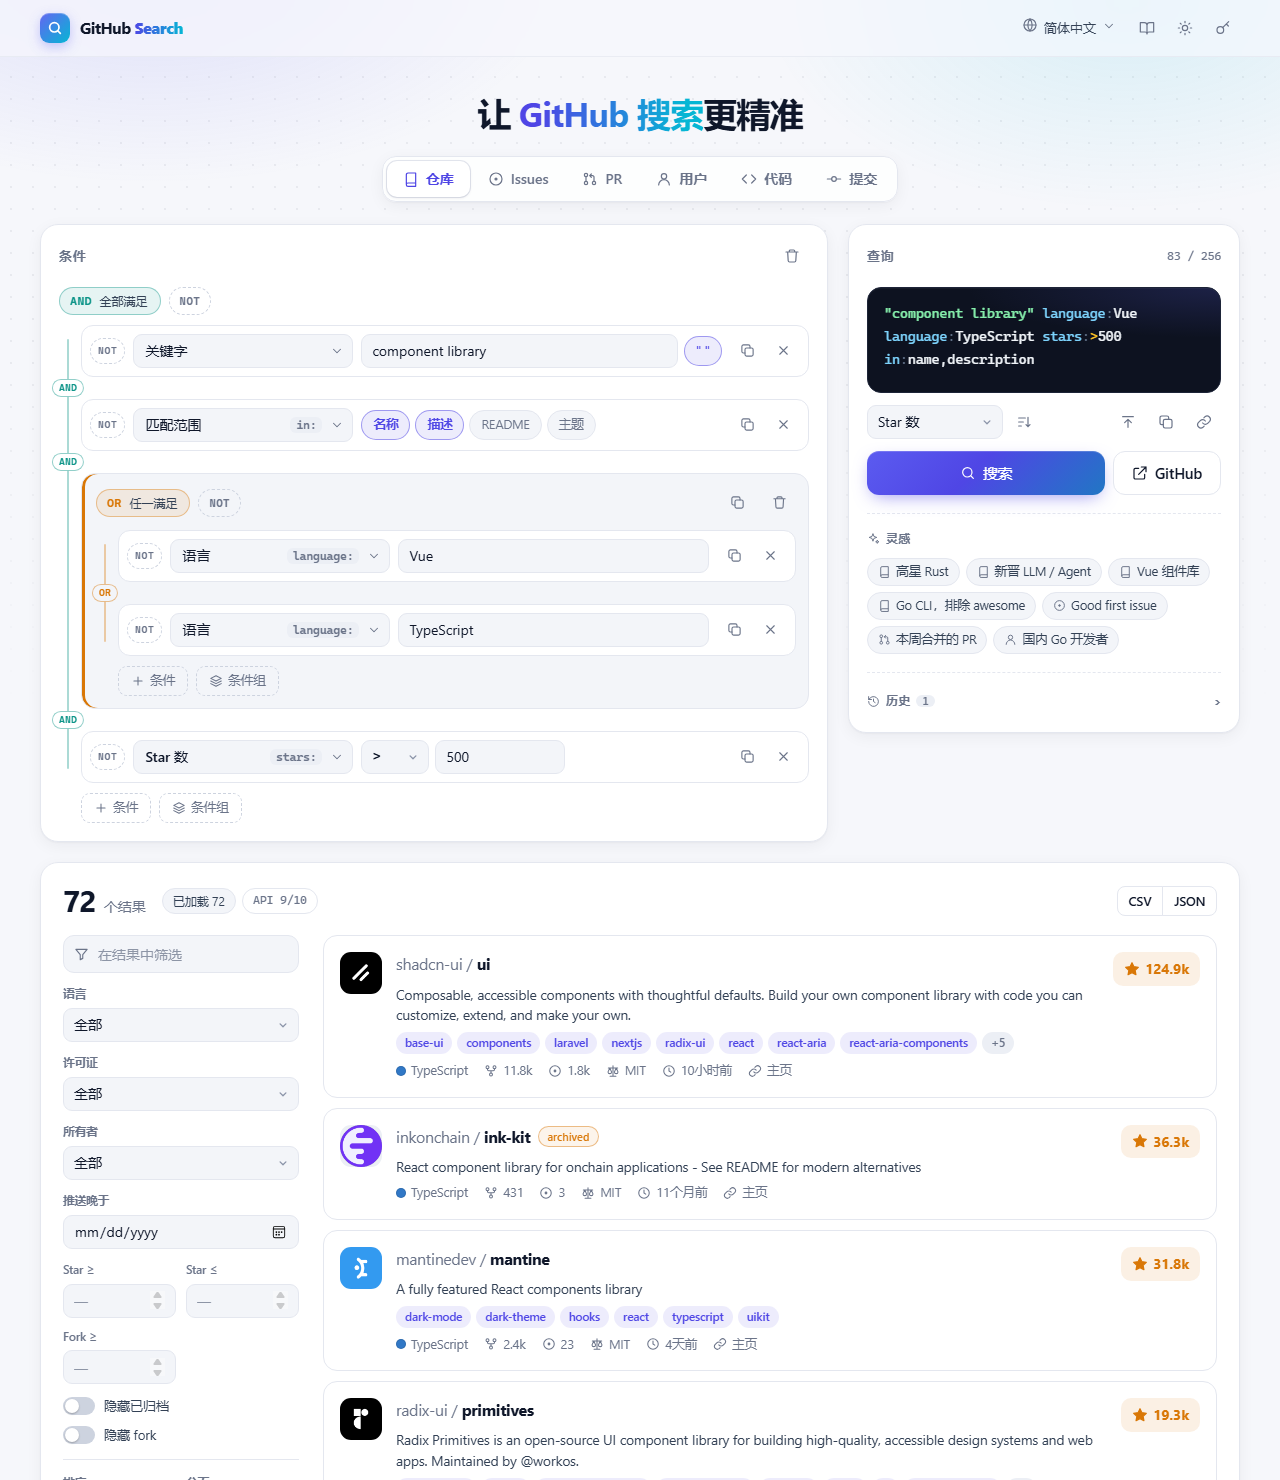
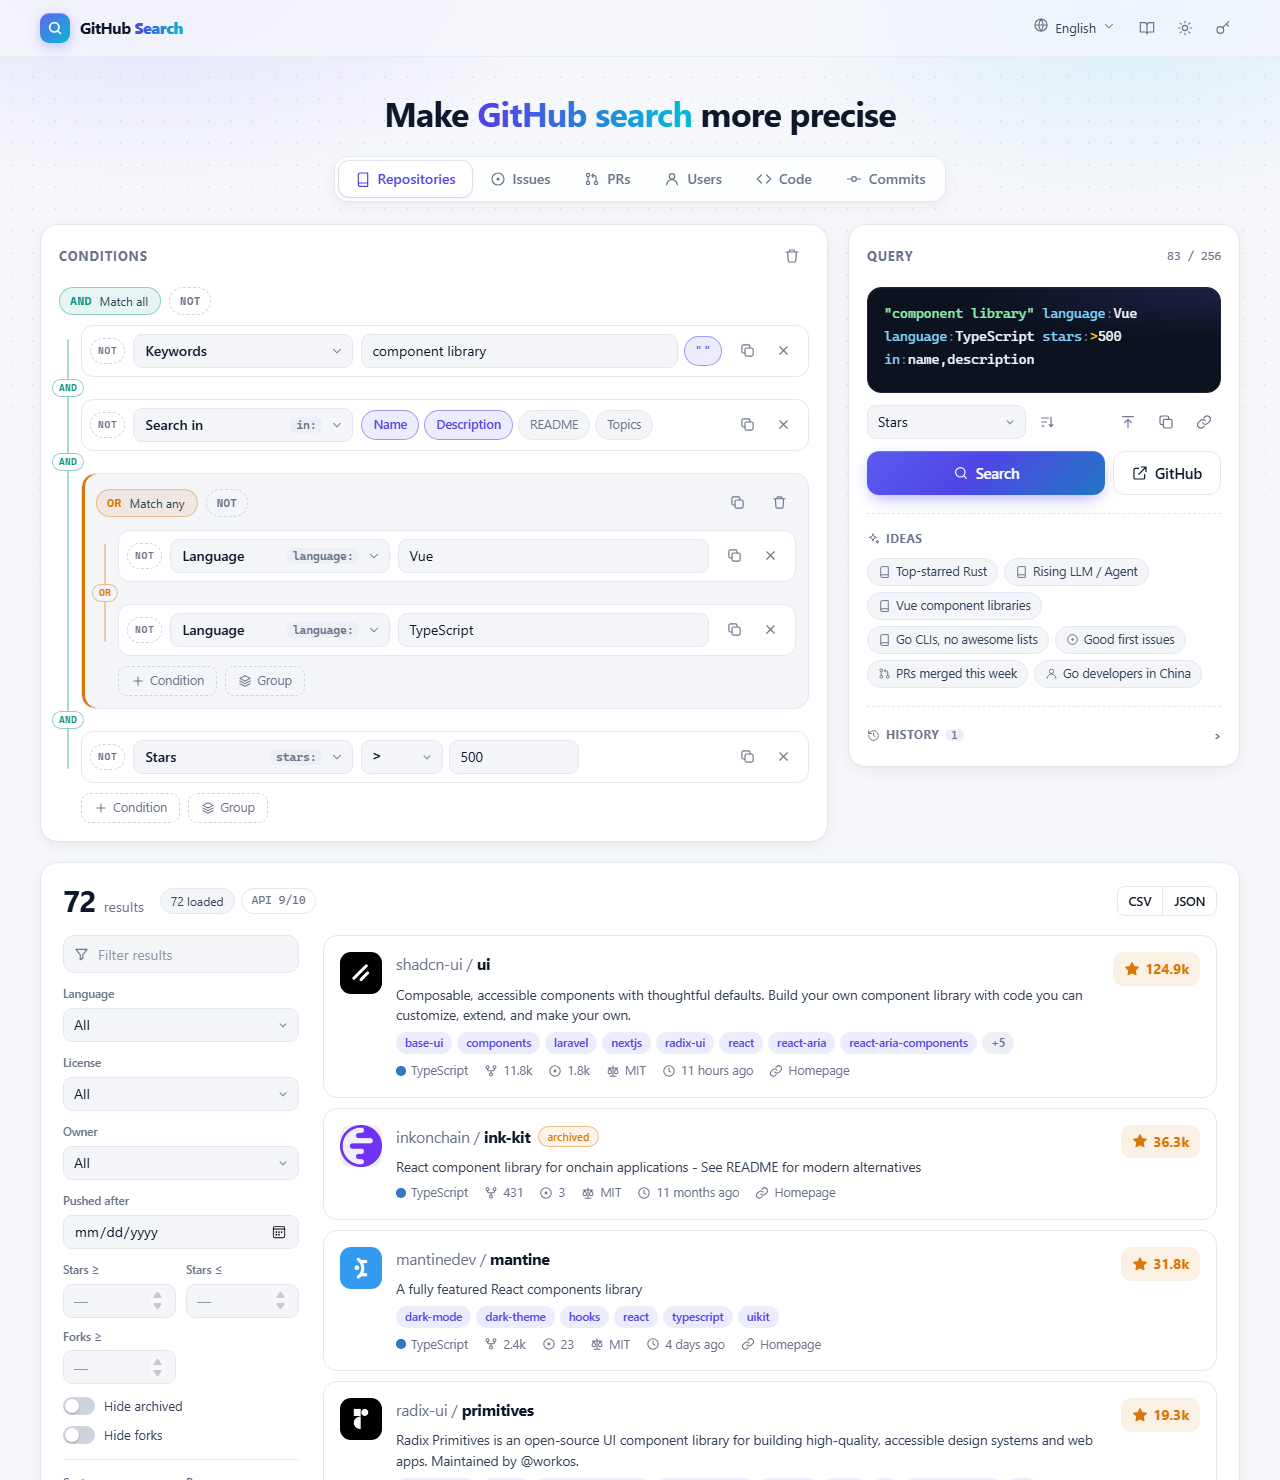
Update docs

diff --git a/js/i18n.js b/js/i18n.js
@@ -320,7 +320,8 @@
     for (const l of list) {
       if (/^zh-(tw|hk|mo)|^zh-hant/.test(l)) return 'zh-TW';
       if (l.startsWith('zh')) return 'zh-CN';
-      for (const code of ['ja', 'fr', 'ru', 'en']) if (l.startsWith(code)) return code;
+      const base = l.split('-')[0];
+      if (D[base]) return base; // 新增语言只要在 D 中登记即可被自动识别
     }
     return 'en';
   }

diff --git a/README.md b/README.md
@@ -1,116 +1,137 @@
 # gh-query
 
-可视化构建 GitHub 搜索语法的网页工具。用条件组拼出 AND / OR / NOT 组合，生成可以直接粘进 GitHub 搜索框的查询字符串；也可以在页面里直接查询，对结果做二次筛选、排序和导出。
+**English** | [简体中文](README_CN.md)
 
-纯静态页面，没有后端，也不需要构建。
+A web tool for building GitHub search queries visually. Combine conditions with AND / OR / NOT, get a query string you can paste straight into GitHub's search box, or run the search in the page and filter, sort and export the results.
 
-**在线使用：** https://YOUR_NAME.github.io/gh-query/
+It's a static site: no backend, no build step.
 
-![gh-query 界面截图](docs/screenshot.png)
+**Demo:** https://xtherk.github.io/gh-query/
 
-## 功能
+![gh-query screenshot](docs/screenshot.png)
 
-- **条件构建**：支持仓库、Issues、Pull Requests、用户、代码、提交六种搜索类型，每种都带完整的限定符列表。条件组可以嵌套，组内切换 AND / OR，单个条件或整组都能取反。
-- **双向编辑**：条件会实时生成查询字符串（带语法高亮）。也可以直接编辑或粘贴一段已有的查询语法，解析回条件树继续修改。
-- **生成 GitHub 能执行的语法**：GitHub 的搜索语法有不少限制，工具会自动处理：取反下推到单个条件、`in:` 合并到最外层、同一字段的 OR 改写成 GitHub 支持的形式。实在无法写成一条查询时，会拆成子查询并说明原因。
-- **页内查询**：通过 GitHub API 拉取结果，多个子查询的结果会合并去重。结果可以按语言、许可证、Star 区间、更新时间等筛选，在本地排序、分页，导出 CSV 或 JSON。
-- **分享与历史**：当前查询可以生成链接分享；最近的查询自动保存在本地。
-- **界面**：支持浅色 / 深色主题，以及简体中文、繁體中文、English、日本語、Français、Русский 六种语言，首次打开按浏览器语言自动选择。
+## Features
 
-## 快速开始
+- **Condition builder**: covers all six search types (repositories, issues, pull requests, users, code, commits), each with its full list of qualifiers. Groups can be nested, switched between AND and OR, and any condition or group can be negated.
+- **Two-way editing**: the query string updates as you edit conditions, with syntax highlighting. You can also edit it by hand or paste an existing query and parse it back into conditions.
+- **Queries GitHub can actually run**: GitHub's search syntax has a number of quirks, and gh-query handles them for you. It pushes negations down to single conditions, moves `in:` to the top level, and rewrites same-field ORs into a form GitHub accepts. When a query can't be expressed as a single GitHub search, it's split into sub-queries and the page explains why.
+- **In-page search**: fetches results through the GitHub API and merges and de-duplicates results from multiple sub-queries. Filter by language, license, star range, last update and more, then sort, paginate, and export to CSV or JSON.
+- **Sharing and history**: turn the current query into a shareable link; recent queries are saved locally.
+- **Languages and themes**: the interface is available in six languages, with light and dark themes that can follow your system. See [Languages](#languages).
 
-直接使用在线版即可。如果要在本地运行：
+## Getting started
+
+Open the demo site and start building. To run it locally:
 
 ```bash
-git clone https://github.com/YOUR_NAME/gh-query.git
+git clone https://github.com/xtherk/gh-query.git
 cd gh-query
-# 直接双击 index.html 打开，或起一个静态服务器：
+# Open index.html directly, or serve the folder:
 python -m http.server 8080
 ```
 
-### 部署到 GitHub Pages
+### Deploying to GitHub Pages
 
-1. Fork 或推送本仓库到自己的账号。
-2. 进入仓库 **Settings → Pages**，Source 选择 **Deploy from a branch**，分支选 `main`，目录选 `/ (root)`。
-3. 保存后稍等片刻，页面会发布在 `https://<用户名>.github.io/gh-query/`。
+1. Fork this repository, or push it to your own account.
+2. Go to **Settings → Pages**, set Source to **Deploy from a branch**, and pick the `main` branch with the `/ (root)` folder.
+3. After a minute or so the site will be live at `https://<username>.github.io/gh-query/`.
 
-部署到其他平台（Nginx、对象存储、Vercel、Netlify 等）也一样，把整个目录作为静态文件托管就行。
+Any other static host (Nginx, object storage, Vercel, Netlify, …) works the same way: serve the folder as static files. All assets use relative paths, so hosting under a sub-path needs no changes.
 
-## 使用说明
+## Usage
 
-### 查询方式
+### Running a query
 
-| 操作 | 说明 |
+| Action | What it does |
 |---|---|
-| 搜索 | 在页面内调用 GitHub API 查询，结果显示在下方；在查询框中按 `Ctrl + Enter` 也可以 |
-| GitHub | 在新标签页打开 GitHub 的搜索结果页，带上当前的排序设置 |
-| 复制 | 复制查询字符串，可以粘贴到 GitHub 搜索框 |
-| 同步到条件 | 把手动编辑过的查询字符串解析回条件 |
+| Search | Runs the query through the GitHub API and shows the results below. `Ctrl + Enter` in the query box does the same |
+| GitHub | Opens GitHub's own search results in a new tab, with your sort order applied |
+| Copy | Copies the query string so you can paste it into GitHub's search box |
+| Sync to conditions | Parses a hand-edited query string back into conditions |
 
-### 结果内筛选
+### Filtering results
 
-结果列表上方的筛选框支持简单语法，只作用于已加载的结果：
+The filter box above the result list supports a small syntax and works on the results already loaded:
 
-| 写法 | 含义 |
+| Input | Matches |
 |---|---|
-| `react hooks` | 同时包含两个词 |
-| `vue\|react` | 包含任意一个 |
-| `-deprecated` | 排除 |
-| `"design system"` | 完整短语 |
+| `react hooks` | both words |
+| `vue\|react` | either word |
+| `-deprecated` | excludes the word |
+| `"design system"` | the exact phrase |
 
-### GitHub Token（可选）
+### GitHub token (optional)
 
-不设置 Token 也能用，只是 API 限额较低；代码搜索的 API 必须提供 Token。
+gh-query works without a token, but API rate limits are lower. Code search through the API requires a token.
 
-| | 未设置 Token | 设置 Token |
+| | Without token | With token |
 |---|---|---|
-| 仓库 / Issues / 用户 / 提交搜索 | 10 次/分钟 | 30 次/分钟 |
-| 代码搜索 | 不可用 | 10 次/分钟 |
+| Repository / issue / user / commit search | 10 requests/min | 30 requests/min |
+| Code search | not available | 10 requests/min |
 
-建议创建一个只有公开仓库只读权限的 [Fine-grained Token](https://github.com/settings/personal-access-tokens/new)。Token 只保存在当前浏览器的 localStorage 中，只会发送给 `api.github.com`。
+A [fine-grained token](https://github.com/settings/personal-access-tokens/new) with read-only access to public repositories is enough. The token is stored only in your browser's localStorage and is only ever sent to `api.github.com`.
 
-## GitHub 搜索语法的限制
+## Languages
 
-下面这些是 GitHub 自身的行为，不是本工具的限制。工具会尽量自动处理，但了解它们有助于理解为什么有时会提示“拆分为子查询”。
+The interface is available in:
 
-- **每个查询最多返回 1000 条结果**，这是 GitHub API 的上限。需要更多结果时，可以缩小条件范围（例如按创建时间分段）。
-- **`in:` 作用于整条查询**，决定所有关键字在哪些字段里匹配，不能只作用于某一组条件。
-- **仓库、用户、提交搜索只支持关键字之间的 OR。** 限定符之间的 OR（如 `topic:llm OR topic:ai-agent`）会返回 0 条，OR 与 `in:` 同时使用也会得到 0 条或错误的结果。
-  - `language:`、`user:`、`org:` 重复出现时表示 OR，所以 `(language:Vue OR language:TypeScript)` 可以改写成 `language:Vue language:TypeScript`，工具会自动这样处理。
-  - `topic:`、`repo:` 重复出现表示 AND，无法这样改写。这类查询会被拆成多个子查询：页内搜索会自动合并结果，在 GitHub 上则需要逐个打开。
-- **Issues、Pull Requests 和网页版代码搜索**支持限定符之间的 OR 和括号，不受上面这条限制。
-- **代码搜索的 API 与网页语法不同**：API 使用旧语法，网页使用新的代码搜索语法。字段选择里标有“API”或“网页”的限定符只在对应一侧生效。
+| Language | Code |
+|---|---|
+| 简体中文 (Simplified Chinese) | `zh-CN` |
+| 繁體中文 (Traditional Chinese) | `zh-TW` |
+| English | `en` |
+| 日本語 (Japanese) | `ja` |
+| Français (French) | `fr` |
+| Русский (Russian) | `ru` |
 
-## 浏览器支持
+- On your first visit, the language is picked from your browser settings, falling back to English.
+- Switch at any time from the language menu in the top-right corner. Your choice is remembered, and switching keeps your conditions and loaded results.
+- Everything on screen is translated, including qualifier names, options, sort orders, result filters and error messages. Relative times ("3 days ago") and numbers follow the selected language.
+- The query string itself is GitHub syntax and doesn't change with the language.
 
-Chrome / Edge 111+、Firefox 113+、Safari 16.2+。
+## GitHub search limitations
 
-## 项目结构
+These are how GitHub's search behaves, not limitations of gh-query. The tool works around them where it can; knowing them helps explain why it sometimes suggests splitting a query.
+
+- **Each query returns at most 1,000 results.** This is a GitHub API limit. To see more, narrow the query, for example by splitting it into creation-date ranges.
+- **`in:` applies to the whole query.** It controls which fields all keywords are matched against and can't be scoped to a single group.
+- **Repository, user and commit search only support OR between keywords.** OR between qualifiers (e.g. `topic:llm OR topic:ai-agent`) returns no results, and combining OR with `in:` returns no results or wrong ones.
+  - Repeating `language:`, `user:` or `org:` means OR, so `(language:Vue OR language:TypeScript)` can be written as `language:Vue language:TypeScript`. gh-query does this rewrite automatically.
+  - Repeating `topic:` or `repo:` means AND, so no such rewrite exists. These queries are split into sub-queries: in-page search merges the results for you, and on GitHub you open each sub-query separately.
+- **Issue, pull request and web code search** support OR between qualifiers and parentheses, so the limitation above doesn't apply to them.
+- **Code search uses different syntax in the API and on the web.** The API uses the legacy syntax; the web uses the newer code search syntax. Qualifiers marked "API" or "web" in the field list only work on that side.
+
+## Browser support
+
+Chrome / Edge 111+, Firefox 113+, Safari 16.2+.
+
+## Project structure
 
 ```
-index.html          页面入口
-css/style.css       样式，包含浅色 / 深色主题
-js/i18n.js          界面文案（六种语言）
-js/schema.js        各搜索类型的限定符、排序项定义
-js/query.js         查询表达式：解析、规范化、序列化、拆分子查询
-js/builder.js       条件构建器
-js/picker.js        下拉选择器
-js/api.js           GitHub 搜索 API 请求
-js/results.js       结果加载、筛选、排序、分页、导出
-js/app.js           页面逻辑
-js/icons.js         SVG 图标
+index.html          entry page
+css/style.css       styles, including light and dark themes
+js/i18n.js          interface text in six languages
+js/schema.js        qualifiers and sort options for each search type
+js/query.js         query expressions: parsing, normalization, serialization, splitting
+js/builder.js       condition builder
+js/picker.js        dropdown picker
+js/api.js           GitHub search API requests
+js/results.js       loading, filtering, sorting, pagination, export
+js/app.js           page logic
+js/icons.js         SVG icons
 ```
 
-没有第三方依赖，所有脚本以普通 `<script>` 方式加载，本地直接打开 `index.html` 也能运行。
+There are no third-party dependencies. Scripts are loaded as plain `<script>` tags, so opening `index.html` from disk works too.
 
-## 参与贡献
+## Contributing
 
-欢迎提交 Issue 和 Pull Request。
+Issues and pull requests are welcome.
 
-- **补充或修正翻译**：修改 `js/i18n.js`，各语言的键需要保持一致。
-- **新增限定符**：在 `js/schema.js` 中对应的搜索类型下添加字段，并在 `js/i18n.js` 中补充名称。
-- **报告搜索结果异常**：请附上生成的查询字符串，以及在 GitHub 上实际搜索得到的结果，方便判断是工具的问题还是 GitHub 语法本身的限制。
+- **Fixing or improving translations**: edit `js/i18n.js`. Every language must have the same set of keys.
+- **Adding a language**: copy an existing language's entries in `js/i18n.js`, translate them, and add the language code and name to the `LANGS` list.
+- **Adding a qualifier**: add the field under the matching search type in `js/schema.js`, then add its name for each language in `js/i18n.js`.
+- **Reporting unexpected results**: please include the generated query string and what GitHub itself returns for it. That makes it easier to tell a gh-query bug from a limitation of GitHub's search syntax.
 
-## 许可证
+## License
 
-见 [LICENSE](LICENSE)。
+gh-query is released under the [GNU Affero General Public License v3.0](LICENSE).

diff --git a/README_CN.md b/README_CN.md
@@ -1,0 +1,137 @@
+# gh-query
+
+[English](README.md) | **简体中文**
+
+可视化构建 GitHub 搜索语法的网页工具。用条件组拼出 AND / OR / NOT 组合，生成可以直接粘进 GitHub 搜索框的查询字符串；也可以在页面里直接查询，对结果做二次筛选、排序和导出。
+
+纯静态页面，没有后端，也不需要构建。
+
+**演示站点：** https://xtherk.github.io/gh-query/
+
+![gh-query 界面截图](docs/screenshot_cn.png)
+
+## 功能
+
+- **条件构建**：支持仓库、Issues、Pull Requests、用户、代码、提交六种搜索类型，每种都带完整的限定符列表。条件组可以嵌套，组内切换 AND / OR，单个条件或整组都能取反。
+- **双向编辑**：条件会实时生成查询字符串（带语法高亮）。也可以直接编辑或粘贴一段已有的查询语法，解析回条件树继续修改。
+- **生成 GitHub 能执行的语法**：GitHub 的搜索语法有不少限制，工具会自动处理：取反下推到单个条件、`in:` 合并到最外层、同一字段的 OR 改写成 GitHub 支持的形式。实在无法写成一条查询时，会拆成子查询并说明原因。
+- **页内查询**：通过 GitHub API 拉取结果，多个子查询的结果会合并去重。结果可以按语言、许可证、Star 区间、更新时间等筛选，在本地排序、分页，导出 CSV 或 JSON。
+- **分享与历史**：当前查询可以生成链接分享；最近的查询自动保存在本地。
+- **多语言与主题**：界面支持六种语言，浅色 / 深色主题可跟随系统，详见[多语言](#多语言)。
+
+## 快速开始
+
+直接打开演示站点即可使用。如果要在本地运行：
+
+```bash
+git clone https://github.com/xtherk/gh-query.git
+cd gh-query
+# 直接双击 index.html 打开，或起一个静态服务器：
+python -m http.server 8080
+```
+
+### 部署到 GitHub Pages
+
+1. Fork 本仓库，或推送到自己的账号下。
+2. 进入仓库 **Settings → Pages**，Source 选择 **Deploy from a branch**，分支选 `main`，目录选 `/ (root)`。
+3. 保存后稍等片刻，页面会发布在 `https://<用户名>.github.io/gh-query/`。
+
+部署到其他平台（Nginx、对象存储、Vercel、Netlify 等）也一样，把整个目录作为静态文件托管就行。页面内的资源都使用相对路径，部署在子路径下无需修改。
+
+## 使用说明
+
+### 查询方式
+
+| 操作 | 说明 |
+|---|---|
+| 搜索 | 在页面内调用 GitHub API 查询，结果显示在下方；在查询框中按 `Ctrl + Enter` 也可以 |
+| GitHub | 在新标签页打开 GitHub 的搜索结果页，带上当前的排序设置 |
+| 复制 | 复制查询字符串，可以粘贴到 GitHub 搜索框 |
+| 同步到条件 | 把手动编辑过的查询字符串解析回条件 |
+
+### 结果内筛选
+
+结果列表上方的筛选框支持简单语法，只作用于已加载的结果：
+
+| 写法 | 含义 |
+|---|---|
+| `react hooks` | 同时包含两个词 |
+| `vue\|react` | 包含任意一个 |
+| `-deprecated` | 排除 |
+| `"design system"` | 完整短语 |
+
+### GitHub Token（可选）
+
+不设置 Token 也能用，只是 API 限额较低；代码搜索的 API 必须提供 Token。
+
+| | 未设置 Token | 设置 Token |
+|---|---|---|
+| 仓库 / Issues / 用户 / 提交搜索 | 10 次/分钟 | 30 次/分钟 |
+| 代码搜索 | 不可用 | 10 次/分钟 |
+
+建议创建一个只有公开仓库只读权限的 [Fine-grained Token](https://github.com/settings/personal-access-tokens/new)。Token 只保存在当前浏览器的 localStorage 中，只会发送给 `api.github.com`。
+
+## 多语言
+
+界面支持以下语言：
+
+| 语言 | 代码 |
+|---|---|
+| 简体中文 | `zh-CN` |
+| 繁體中文 | `zh-TW` |
+| English | `en` |
+| 日本語 | `ja` |
+| Français | `fr` |
+| Русский | `ru` |
+
+- 首次打开时按浏览器语言自动选择，匹配不到时使用英文。
+- 可以通过右上角的语言菜单随时切换，选择会保存在本地。切换语言不会丢失已填写的条件和已加载的结果。
+- 翻译覆盖界面上的所有文字，包括限定符名称、选项、排序项、结果筛选项和错误提示。相对时间（如“3 天前”）和数字格式按所选语言显示。
+- 查询字符串本身是 GitHub 语法，不随语言变化。
+
+## GitHub 搜索语法的限制
+
+下面这些是 GitHub 自身的行为，不是本工具的限制。工具会尽量自动处理，但了解它们有助于理解为什么有时会提示“拆分为子查询”。
+
+- **每个查询最多返回 1000 条结果**，这是 GitHub API 的上限。需要更多结果时，可以缩小条件范围（例如按创建时间分段）。
+- **`in:` 作用于整条查询**，决定所有关键字在哪些字段里匹配，不能只作用于某一组条件。
+- **仓库、用户、提交搜索只支持关键字之间的 OR。** 限定符之间的 OR（如 `topic:llm OR topic:ai-agent`）会返回 0 条，OR 与 `in:` 同时使用也会得到 0 条或错误的结果。
+  - `language:`、`user:`、`org:` 重复出现时表示 OR，所以 `(language:Vue OR language:TypeScript)` 可以改写成 `language:Vue language:TypeScript`，工具会自动这样处理。
+  - `topic:`、`repo:` 重复出现表示 AND，无法这样改写。这类查询会被拆成多个子查询：页内搜索会自动合并结果，在 GitHub 上则需要逐个打开。
+- **Issues、Pull Requests 和网页版代码搜索**支持限定符之间的 OR 和括号，不受上面这条限制。
+- **代码搜索的 API 与网页语法不同**：API 使用旧语法，网页使用新的代码搜索语法。字段选择里标有“API”或“网页”的限定符只在对应一侧生效。
+
+## 浏览器支持
+
+Chrome / Edge 111+、Firefox 113+、Safari 16.2+。
+
+## 项目结构
+
+```
+index.html          页面入口
+css/style.css       样式，包含浅色 / 深色主题
+js/i18n.js          界面文案（六种语言）
+js/schema.js        各搜索类型的限定符、排序项定义
+js/query.js         查询表达式：解析、规范化、序列化、拆分子查询
+js/builder.js       条件构建器
+js/picker.js        下拉选择器
+js/api.js           GitHub 搜索 API 请求
+js/results.js       结果加载、筛选、排序、分页、导出
+js/app.js           页面逻辑
+js/icons.js         SVG 图标
+```
+
+没有第三方依赖，所有脚本以普通 `<script>` 方式加载，本地直接打开 `index.html` 也能运行。
+
+## 参与贡献
+
+欢迎提交 Issue 和 Pull Request。
+
+- **补充或修正翻译**：修改 `js/i18n.js`，各语言的键需要保持一致。
+- **新增一种语言**：在 `js/i18n.js` 中复制一份现有语言的词条并翻译，再把语言代码和名称加到 `LANGS` 列表里。
+- **新增限定符**：在 `js/schema.js` 中对应的搜索类型下添加字段，并在 `js/i18n.js` 中补充各语言的名称。
+- **报告搜索结果异常**：请附上生成的查询字符串，以及在 GitHub 上实际搜索得到的结果，方便判断是工具的问题还是 GitHub 语法本身的限制。
+
+## 许可证
+
+本项目基于 [GNU Affero General Public License v3.0](LICENSE) 发布。
